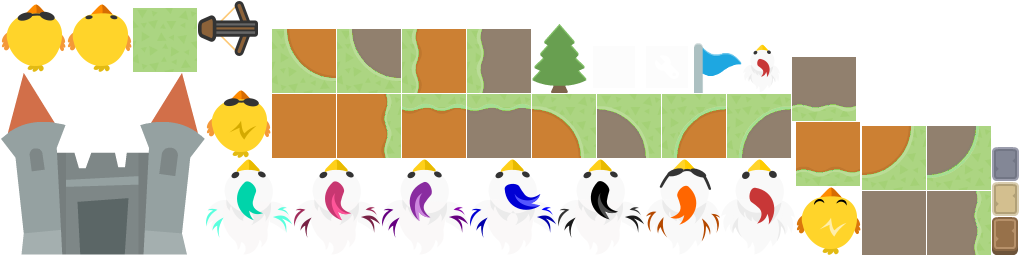
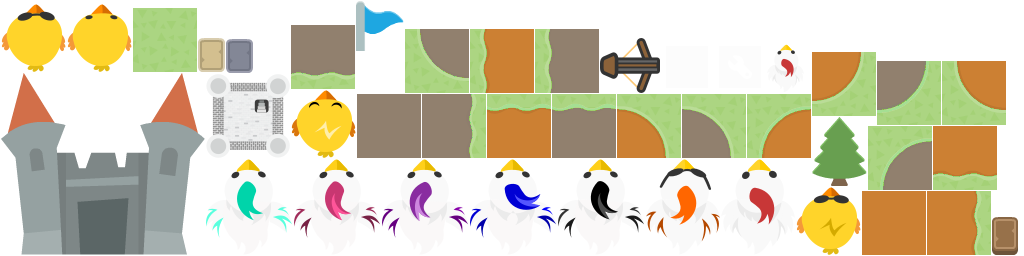
Added rendering of castle. Initial work on rotating enemies sprites.

diff --git a/core/src/main/kotlin/com/ownedoutcomes/view/render/Renderer.kt b/core/src/main/kotlin/com/ownedoutcomes/view/render/Renderer.kt
@@ -1,7 +1,9 @@
-package com.ownedoutcomes.logic
+package com.ownedoutcomes.view.render
 
 import com.badlogic.gdx.graphics.g2d.Batch
 import com.badlogic.gdx.graphics.g2d.Sprite
+import com.badlogic.gdx.math.MathUtils
+import com.badlogic.gdx.math.Vector2
 import com.badlogic.gdx.physics.box2d.Box2DDebugRenderer
 import com.badlogic.gdx.scenes.scene2d.ui.Skin
 import com.ownedoutcomes.entity.Chicken
@@ -10,7 +12,7 @@ import com.ownedoutcomes.view.GameController
 
 
 class GameRenderer(val gameController: GameController, val batch: Batch, skin: Skin) {
-  private val castleSprite = skin.atlas.createSprite("castle_grey")
+  private val castleSprite = skin.atlas.createSprite("castle_v1")
   private val enemySprite = skin.atlas.createSprite("chicken2_v1")
   private val towerSprite = skin.atlas.createSprite("tower0")
 
@@ -29,7 +31,7 @@ class GameRenderer(val gameController: GameController, val batch: Batch, skin: S
     batch.begin()
 
     renderCastle()
-    renderEnemies()
+    renderEnemies(gameController.castle.spawnCenter)
     renderTowers()
 
     batch.end()
@@ -46,21 +48,26 @@ class GameRenderer(val gameController: GameController, val batch: Batch, skin: S
     playerSprite.draw(batch)
   }
 
-  private fun renderEnemies() {
+  private fun renderEnemies(playerPosition: Vector2) {
     println("Rendering ${gameController.enemies.size} enemies")
     gameController.enemies.forEach {
       enemy ->
-      renderEnemy(enemy)
+      renderEnemy(playerPosition, enemy)
     }
   }
 
-  private fun renderEnemy(enemy: Chicken) {
+  private fun renderEnemy(playerPosition: Vector2, enemy: Chicken) {
     val enemySprite = Sprite(enemySprite)
     val spriteSize = enemy.size * 2
-    enemySprite.x = enemy.body.position.x - enemy.size
-    enemySprite.y = enemy.body.position.y - enemy.size
+    val enemyBody = enemy.body
+    enemySprite.x = enemyBody.position.x - enemy.size
+    enemySprite.y = enemyBody.position.y - enemy.size
     enemySprite.setSize(spriteSize, spriteSize)
     enemySprite.setOriginCenter()
+
+    val angle = MathUtils.atan2(playerPosition.y - enemyBody.position.y, playerPosition.x - enemyBody.position.x)
+
+    enemySprite.rotation = MathUtils.radiansToDegrees * angle
     enemySprite.draw(batch)
   }
 

diff --git a/core/src/main/kotlin/com/ownedoutcomes/view/GameController.kt b/core/src/main/kotlin/com/ownedoutcomes/view/GameController.kt
@@ -1,7 +1,6 @@
 package com.ownedoutcomes.view
 
 import com.badlogic.gdx.graphics.OrthographicCamera
-import com.badlogic.gdx.math.MathUtils
 import com.badlogic.gdx.physics.box2d.Body
 import com.badlogic.gdx.physics.box2d.World
 import com.badlogic.gdx.scenes.scene2d.ui.Skin
@@ -11,9 +10,9 @@ import com.ownedoutcomes.entity.AbstractEntity
 import com.ownedoutcomes.entity.Castle
 import com.ownedoutcomes.entity.Chicken
 import com.ownedoutcomes.entity.Tower
-import ktx.collections.GdxSet
 import com.ownedoutcomes.screenHeight
 import com.ownedoutcomes.screenWidth
+import ktx.collections.GdxSet
 import ktx.collections.gdxSetOf
 import ktx.collections.isNotEmpty
 import ktx.math.vec2
@@ -33,9 +32,10 @@ class GameController(val skin: Skin) : Disposable {
     world.setContactListener(ContactController(this))
   }
 
-  fun spawnEnemies() =
-    (0..200).map {
-      val chicken = Chicken(skin.getDrawable("chicken${MathUtils.random.nextInt(4) + 4}_v1"), world, 1f)
+  fun spawnEnemies(enemiesCount: Int) =
+    (0..enemiesCount).map {
+      //      skin.getDrawable("chicken${MathUtils.random.nextInt(4) + 4}_v1")
+      val chicken = Chicken(world, 1f)
       enemies.add(chicken)
       chicken
     }

diff --git a/core/src/main/kotlin/com/ownedoutcomes/entity/Entities.kt b/core/src/main/kotlin/com/ownedoutcomes/entity/Entities.kt
@@ -5,10 +5,7 @@ import com.badlogic.gdx.math.Vector2
 import com.badlogic.gdx.physics.box2d.Body
 import com.badlogic.gdx.physics.box2d.BodyDef
 import com.badlogic.gdx.physics.box2d.World
-import com.badlogic.gdx.scenes.scene2d.ui.Image
-import com.badlogic.gdx.scenes.scene2d.utils.Drawable
 import com.ownedoutcomes.fieldWidth
-import com.ownedoutcomes.halfScreenWidth
 import com.ownedoutcomes.screenHeight
 import com.ownedoutcomes.screenWidth
 import ktx.box2d.body
@@ -27,10 +24,9 @@ abstract class AbstractEntity(val world: World) {
   abstract fun update(delta: Float)
 }
 
-class Chicken(image: Drawable, world: World, life: Float) : Enemy(image, world, life = life)
+class Chicken(world: World, life: Float) : Enemy(world, life = life)
 
-abstract class Enemy(image: Drawable,
-                     world: World,
+abstract class Enemy(world: World,
                      var life: Float,
                      val destination: Vector2 = vec2(0f, fieldWidth.toFloat() / 2)) : AbstractEntity(world) {
   val size = 20f

diff --git a/core/src/main/kotlin/com/ownedoutcomes/view/Game.kt b/core/src/main/kotlin/com/ownedoutcomes/view/Game.kt
@@ -7,7 +7,7 @@ import com.badlogic.gdx.scenes.scene2d.ui.Label
 import com.badlogic.gdx.utils.Align
 import com.ownedoutcomes.*
 import com.ownedoutcomes.entity.TowerFactory
-import com.ownedoutcomes.logic.GameRenderer
+import com.ownedoutcomes.view.render.GameRenderer
 import ktx.actors.onClick
 import ktx.actors.onKey
 import ktx.app.KtxScreen
@@ -161,7 +161,7 @@ class Game(val stage: Stage,
     stage.keyboardFocus = view
   }
 
-  private val enemiesSpawnTimeout = 10
+  private val enemiesSpawnTimeout = 0.5f
 
   override fun render(delta: Float) {
     gameController.world.step(delta, 8, 3)
@@ -169,7 +169,7 @@ class Game(val stage: Stage,
 
     if (lastSpawnDelta > enemiesSpawnTimeout) {
       lastSpawnDelta = 0.0f
-      gameController.spawnEnemies()
+      gameController.spawnEnemies(10)
     } else {
       lastSpawnDelta += delta
     }

diff --git a/core/src/main/kotlin/com/ownedoutcomes/Application.kt b/core/src/main/kotlin/com/ownedoutcomes/Application.kt
@@ -9,11 +9,10 @@ import com.badlogic.gdx.scenes.scene2d.Stage
 import com.badlogic.gdx.scenes.scene2d.ui.Skin
 import com.badlogic.gdx.utils.viewport.ScreenViewport
 import com.badlogic.gdx.utils.viewport.Viewport
-import com.ownedoutcomes.logic.GameRenderer
-import com.ownedoutcomes.view.ContactController
 import com.ownedoutcomes.view.Game
 import com.ownedoutcomes.view.GameController
 import com.ownedoutcomes.view.Menu
+import com.ownedoutcomes.view.render.GameRenderer
 import ktx.app.KtxGame
 import ktx.async.enableKtxCoroutines
 import ktx.inject.Context

diff --git a/core/src/main/kotlin/com/ownedoutcomes/entity/PlayerEntities.kt b/core/src/main/kotlin/com/ownedoutcomes/entity/PlayerEntities.kt
@@ -8,7 +8,7 @@ import ktx.box2d.body
 import ktx.math.vec2
 
 class Castle( world: World, val life: Float, val spawnCenter: Vector2 = vec2(0f, fieldWidth.toFloat() / 2)) : AbstractEntity(world) {
-  var size: Float = 25f
+  var size: Float = 75f
 
   init {
     initiate()
